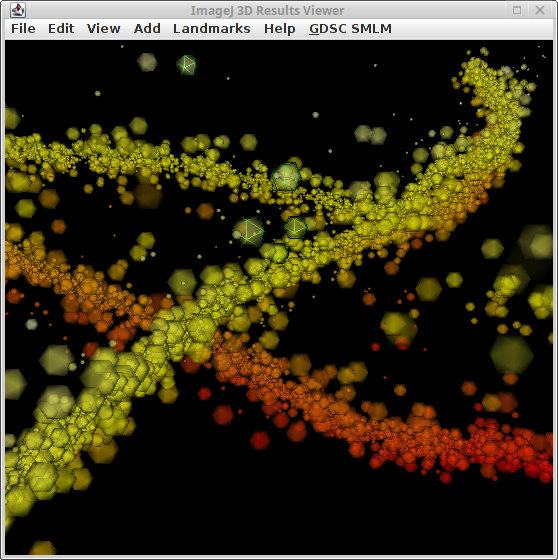
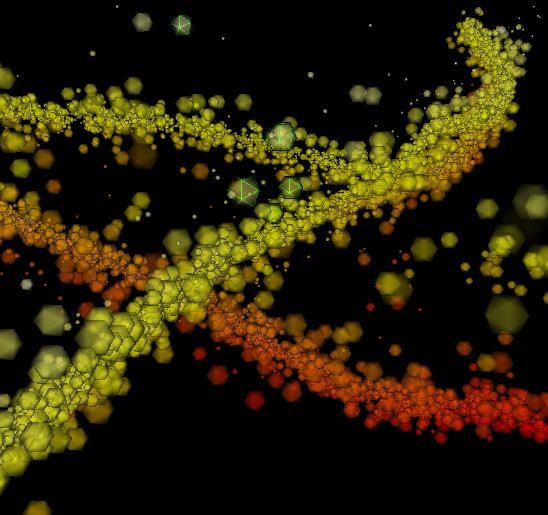
Crop the 3D Results Viewer example to the 3D canvas

diff --git a/docs/results_plugins.rst b/docs/results_plugins.rst
@@ -1503,7 +1503,7 @@ Show an interactive 3D view of the localisations in a dataset using graphics car
     :align: center
     :figwidth: 80%
 
-    Main window of the 3D Results Viewer.
+    Example view of the 3D Results Viewer.
 
     The image shows fitting results for a simulated microtubule network. The image is sample dataset MT0.N1.LD from the Localisation Microscopy Challenge 2016. The image is coloured by z-depth using a red-yellow transition. The size of the localisations represents the localisation precision. Transparency is 30%. Selected localisations are outlined using a green 3D mesh.
 
